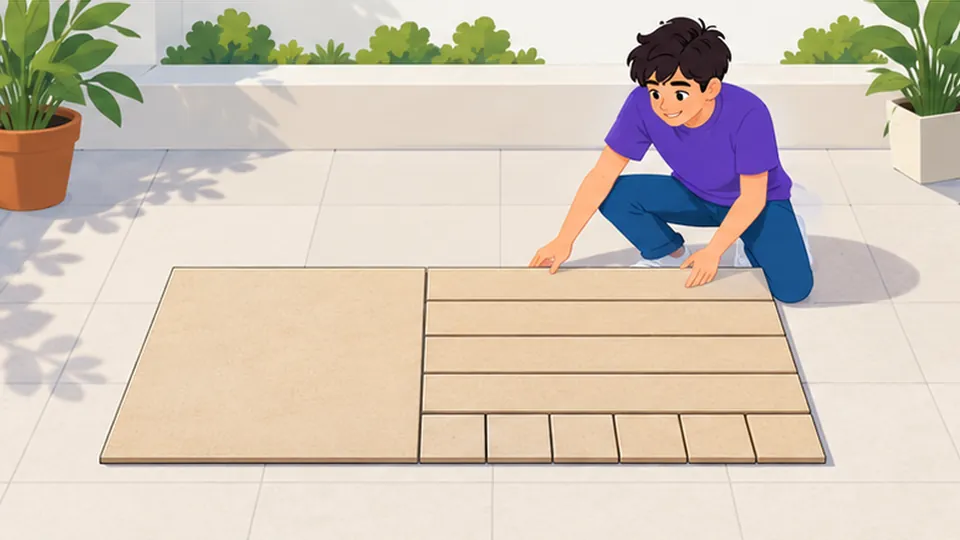
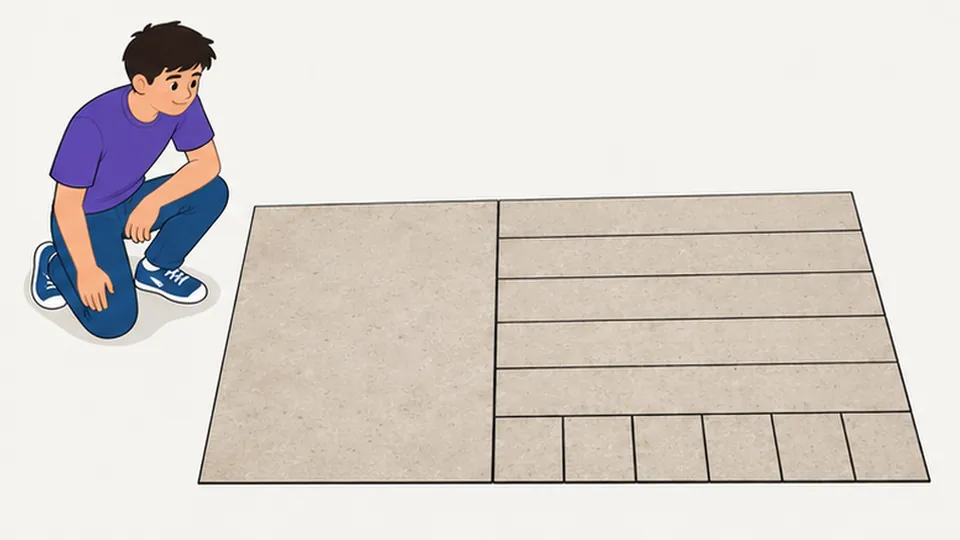
Illustrations: redraw 11 cells flagged by review (not yet re-checked); ill-ciz --file for redraw sets

diff --git a/tools/ill-ciz.py b/tools/ill-ciz.py
@@ -1,4 +1,5 @@
 # Draw topic illustrations with Codex, 4 per sprite, then slice:  python tools/ill-ciz.py [workers=3] [only-group-numbers...]
+# Redraw a set:  python tools/ill-ciz.py 3 --file ../plan/illustrasiya/yeniden-1.json  (its own sprites, existing WebP overwritten)
 # Scenes: ../plan/illustrasiya/sehneler.json [{slug, scene}]. Style: ../plan/illustrasiya/style-A.txt (chosen 20 Oct 2026).
 # A group is skipped when all its WebP files exist, so the script can be re-run after failures.
 import json, os, subprocess, sys, shutil
@@ -6,11 +7,15 @@ from concurrent.futures import ThreadPoolExecutor
 os.chdir(os.path.join(os.path.dirname(__file__), ".."))
 PLAN = os.path.abspath("../plan/illustrasiya")
 SPR = os.path.join(PLAN, "sprites"); os.makedirs(SPR, exist_ok=True)
-scenes = json.load(open(os.path.join(PLAN, "sehneler.json"), encoding="utf-8"))
+args = sys.argv[1:]
+redo = None
+if "--file" in args: i = args.index("--file"); redo = args[i + 1]; del args[i:i + 2]
+scenes = json.load(open(redo or os.path.join(PLAN, "sehneler.json"), encoding="utf-8"))
+tag = os.path.splitext(os.path.basename(redo))[0] + "-" if redo else ""
 style = open(os.path.join(PLAN, "style-A.txt"), encoding="utf-8").read().strip()
 groups = [scenes[i:i + 4] for i in range(0, len(scenes), 4)]
-workers = int(sys.argv[1]) if len(sys.argv) > 1 else 3
-only = {int(x) for x in sys.argv[2:]}
+workers = int(args[0]) if args else 3
+only = {int(x) for x in args[1:]}
 CODEX = shutil.which("codex") or shutil.which("codex.cmd")
 
 def prompt(g, out):
@@ -30,8 +35,8 @@ Physical and geometric details must be correct (shadows away from the light, par
 def run(n):
     g = groups[n]
     slugs = [s["slug"] for s in g] + ["-"] * (4 - len(g))
-    if all(os.path.exists(f"assets/ill/{s}.webp") for s in slugs if s != "-"): return f"{n:02d} skip"
-    out = os.path.join(SPR, f"sprite-{n:02d}.png")
+    if not redo and all(os.path.exists(f"assets/ill/{s}.webp") for s in slugs if s != "-"): return f"{n:02d} skip"
+    out = os.path.join(SPR, f"sprite-{tag}{n:02d}.png")
     if not os.path.exists(out):
         # the prompt goes through stdin ("-"): on Windows codex.cmd cuts a multi-line argument at the first newline
         r = subprocess.run([CODEX, "exec", "--skip-git-repo-check", "-s", "workspace-write", "-C", SPR, "-"], input=prompt(g, out),
